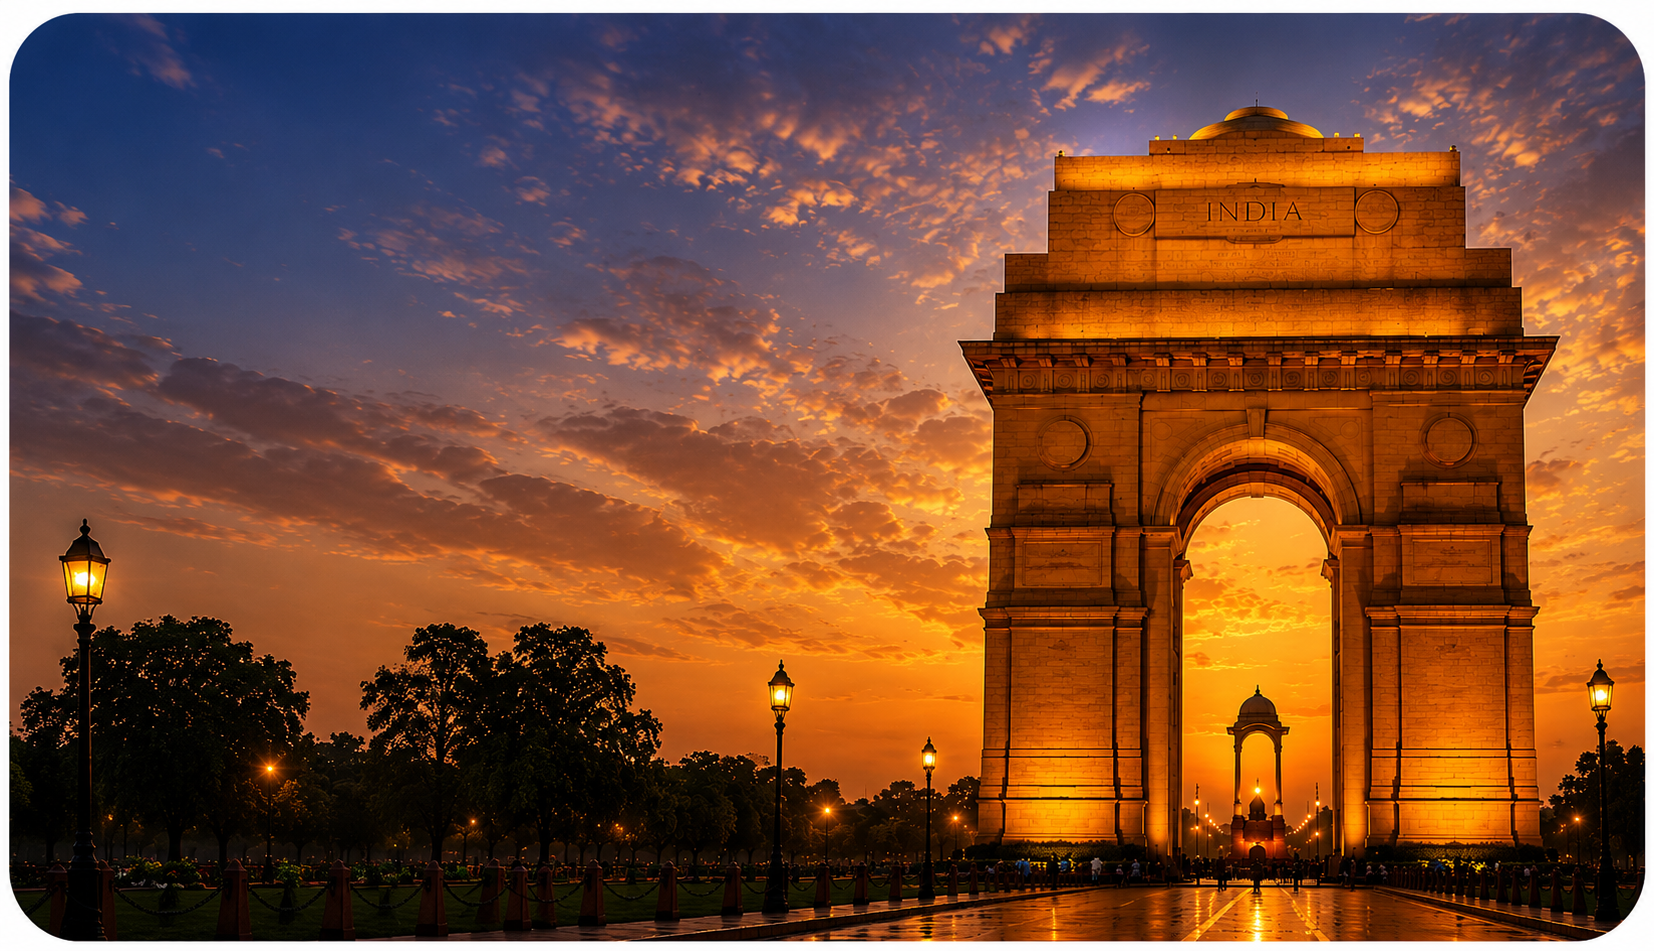
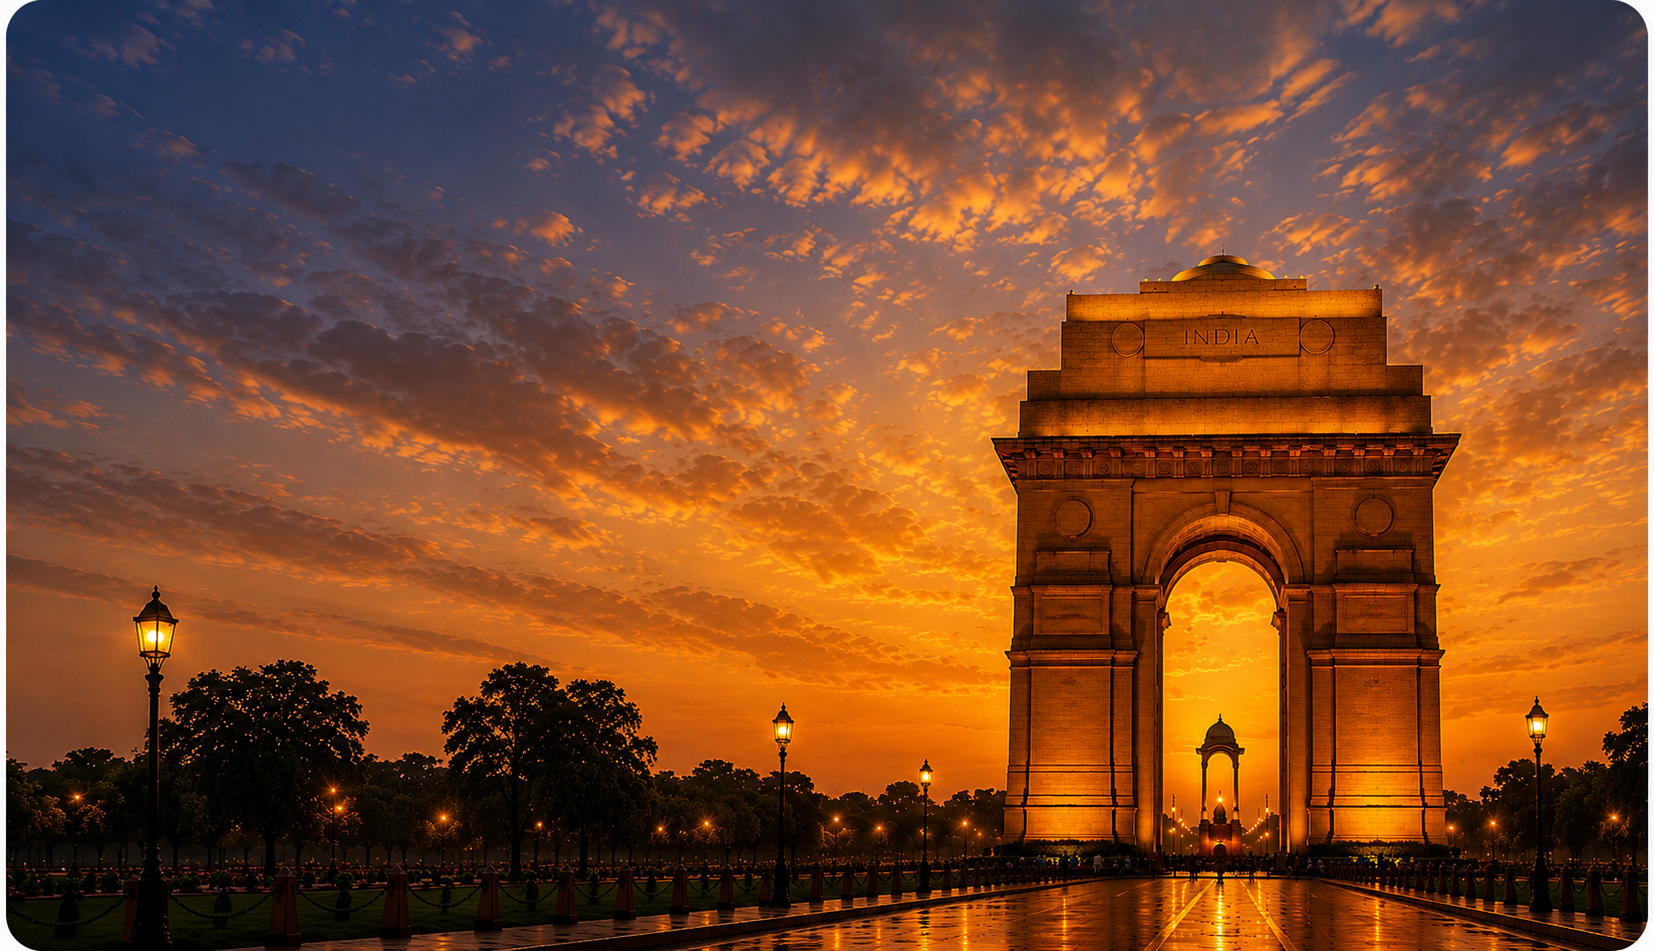
location step

diff --git a/frontend/src/features/theaters/CurrentLocation.jsx b/frontend/src/features/theaters/CurrentLocation.jsx
@@ -1,10 +1,49 @@
 import { MapPin } from "lucide-react";
+import { getNearbyTheaters } from "../../services/theaterService";
 
-const CurrentLocation = () => {
+const CurrentLocation = ({
+  setTheaters,
+  setLoading,
+  setError,
+}) => {
+
+const handleCurrentLocation = () => {
+  if (!navigator.geolocation) {
+    setError("Geolocation is not supported.");
+    return;
+  }
+
+  setLoading(true);
+  setError("");
+
+  navigator.geolocation.getCurrentPosition(
+    async (position) => {
+      try {
+        const { latitude, longitude } = position.coords;
+
+        const data = await getNearbyTheaters(latitude, longitude);
+
+        setTheaters(data);
+      } catch (err) {
+        setError("Failed to fetch nearby theaters.");
+      } finally {
+        setLoading(false);
+      }
+    },
+    () => {
+      setLoading(false);
+      setError("Location permission denied.");
+    }
+  );
+};
+
   return (
-    <button className="location-btn">
+    <button
+  className="location-btn"
+  onClick={handleCurrentLocation}
+>
       <MapPin size={22} />
-      <span>Turn On Current Location</span>
+      <span>Find Nearby Theaters</span>
     </button>
   );
 };

diff --git a/frontend/src/pages/Theaters.jsx b/frontend/src/pages/Theaters.jsx
@@ -1,44 +1,7 @@
-import { useEffect, useState } from "react";
+import TheaterPage from "../features/theaters";
 
-const Theaters = () => {
-  const [location, setLocation] = useState(null);
-  const [error, setError] = useState("");
-
-  useEffect(() => {
-    if (!navigator.geolocation) {
-      setError("Geolocation is not supported by your browser.");
-      return;
-    }
-
-    navigator.geolocation.getCurrentPosition(
-      (position) => {
-        setLocation({
-          lat: position.coords.latitude,
-          lng: position.coords.longitude,
-        });
-      },
-      (err) => {
-        setError("Location permission denied.");
-      }
-    );
-  }, []);
-
-  return (
-    <div className="theaters-page">
-      <h1>Nearby Theaters</h1>
-
-      {error && <p>{error}</p>}
-
-      {location ? (
-        <>
-          <p>Latitude: {location.lat}</p>
-          <p>Longitude: {location.lng}</p>
-        </>
-      ) : (
-        !error && <p>Getting your location...</p>
-      )}
-    </div>
-  );
-};
+function Theaters() {
+  return <TheaterPage />;
+}
 
 export default Theaters;

diff --git a/frontend/src/App.jsx b/frontend/src/App.jsx
@@ -1,37 +1,19 @@
 import { Routes, Route } from "react-router-dom";
 
 import Layout from "./layout/Layout";
-
 import Dashboard from "./pages/Dashboard";
-
 import SearchResults from "./pages/SearchResults";
-
 import MovieDetails from "./pages/MovieDetails";
-
-import Theaters from "./features/theaters";
+import Theaters from "./pages/Theaters";
 
 function App() {
   return (
     <Routes>
       <Route element={<Layout />}>
-        <Route
-          path="/"
-          element={<Dashboard />}
-        />
-
-        <Route
-          path="/search-results"
-          element={<SearchResults />}
-        />
-
-        <Route
-          path="/movie/:id"
-          element={<MovieDetails />}
-        />
-        <Route
-  path="/theaters"
-  element={<Theaters />}
-/>
+        <Route path="/" element={<Dashboard />} />
+        <Route path="/search-results" element={<SearchResults />} />
+        <Route path="/movie/:id" element={<MovieDetails />} />
+        <Route path="/theaters" element={<Theaters />} />
       </Route>
     </Routes>
   );

diff --git a/frontend/src/features/theaters/index.jsx b/frontend/src/features/theaters/index.jsx
@@ -4,7 +4,13 @@ import SearchBar from "./SearchBar";
 import RegionCard from "./RegionCard";
 import regions from "./data";
 
+import { useState } from "react";
+import { getNearbyTheaters, getCityTheaters } from "../../services/theaterService";
+
 const Theaters = () => {
+  const [theaters, setTheaters] = useState([]);
+const [loading, setLoading] = useState(false);
+const [error, setError] = useState("");
   return (
     <main className="theaters-page">
 
@@ -32,7 +38,11 @@ location to explore theaters instantly.
 
 <div className="search-card">
 
-    <CurrentLocation />
+    <CurrentLocation
+  setTheaters={setTheaters}
+  setLoading={setLoading}
+  setError={setError}
+/>
 
     <div className="divider">
         <span>OR</span>
@@ -74,5 +84,6 @@ location to explore theaters instantly.
     </main>
   );
 };
+
 
 export default Theaters;

diff --git a/frontend/src/services/theaterService.js b/frontend/src/services/theaterService.js
@@ -1,0 +1,19 @@
+import axios from "axios";
+
+const BASE_URL = "http://localhost:5000/api/theaters";
+
+export const getNearbyTheaters = async (lat, lon) => {
+  const response = await axios.get(`${BASE_URL}/nearby`, {
+    params: { lat, lon },
+  });
+
+  return response.data;
+};
+
+export const getCityTheaters = async (city) => {
+  const response = await axios.get(`${BASE_URL}/city`, {
+    params: { city },
+  });
+
+  return response.data;
+};

diff --git a/frontend/src/features/navbar/NavLinks.jsx b/frontend/src/features/navbar/NavLinks.jsx
@@ -59,6 +59,9 @@ const goToTrending = () => {
     });
   }
 };
+const goToTheaters = () => {
+  navigate("/theaters");
+};
 
   return (
     <ul className="nav-links">
@@ -70,7 +73,8 @@ const goToTrending = () => {
 
       <li onClick={goToTrending}>Trending</li>
       
-      <li>Theaters</li>
+      <li onClick={goToTheaters}>Theaters</li>
+      
       <li>Contact Us</li>
     </ul>
   );

diff --git a/frontend/src/features/hero/hero.css b/frontend/src/features/hero/hero.css
@@ -82,7 +82,7 @@ body {
     background: rgba(255,255,255,.05);
     border: 1px solid rgba(255,255,255,.08);
     border-radius: 50px;
-    font-size: 14px;
+    font-size: 12px;
     white-space: nowrap;
 
     transition: .3s;
@@ -127,7 +127,7 @@ body {
 /* TITLE */
 
 .hero-title {
-  font-size: 46px;
+  font-size: 43px;
   line-height: 1.2;
   margin-bottom: 15px;
   max-width: 650px;

diff --git a/frontend/src/features/theaters/theater.css b/frontend/src/features/theaters/theater.css
@@ -3,7 +3,8 @@
 =========================== */
 
 .theaters-page{
-    min-height:100vh;
+     height: calc(100vh - 0px);
+    overflow: hidden;
     background:#0b0f19;
     padding:25px 0 50px;
 }
@@ -22,7 +23,7 @@
 .theater-hero{
     width:100%;
     min-height:560px;
-
+     height: 100%;
     position:relative;
 
     overflow:hidden;
